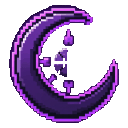
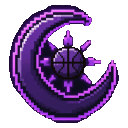
Ranked: fix eclipse badge cutout, show opponent rank badge

Changed region(s): [[0.0625, 0.0312, 0.9375, 0.9688]]

diff --git a/supabase/tests/match-ranks.test.ts b/supabase/tests/match-ranks.test.ts
@@ -1,0 +1,30 @@
+// Migration 20261115: pokejam_match_ranks gives both players' public rank to the match's players only.
+import { describe, expect, it, vi } from 'vitest';
+import { testDb } from './testDb';
+
+vi.setConfig({ testTimeout: 60_000 });
+
+describe('pokejam_match_ranks', () => {
+  it('returns each side as ranked / placing / unranked, to participants only, with nothing private', async () => {
+    const t = await testDb();
+    const [a, b, c] = [await t.user('A', false, 'Player_One'), await t.user('B', false, 'Player_Two'), await t.user('C', false, 'Outsider')];
+    expect(await a.call('pokejam_find_match', ['ranked'])).toBeNull();
+    const mid = (await b.call<string | null>('pokejam_find_match', ['ranked']))!;
+    const m = (await t.sql('select host, guest from public.pokejam_matches where id = $1', [mid]))[0] as { host: string; guest: string };
+
+    const sid = (await t.sql(`select id from public.pokejam_seasons where status = 'active'`))[0].id as number;
+    for (const u of [m.host, m.guest]) await t.sql('select public.pokejam_ranked_profile_lock($1, $2)', [u, sid]);
+    await t.sql(`update public.pokejam_ranked_profiles set status = 'ranked', placements_played = 5, div_idx = 7, points = 40 where user_id = $1`, [m.host]);
+    await t.sql(`update public.pokejam_ranked_profiles set status = 'placing', placements_played = 2 where user_id = $1`, [m.guest]);
+    const both = await a.call<Record<string, Record<string, unknown>>>('pokejam_match_ranks', [mid]);
+    expect(Object.keys(both).sort()).toEqual(['guest', 'host']);
+    expect(both.host).toEqual({ status: 'ranked', placements_played: 5, placements_total: 5, div_idx: 7, tier: 'Gold', division: 2 });
+    expect(both.guest).toEqual({ status: 'placing', placements_played: 2, placements_total: 5 });
+
+    await t.sql('delete from public.pokejam_ranked_profiles where user_id = $1', [m.guest]);
+    expect((await b.call<Record<string, Record<string, unknown>>>('pokejam_match_ranks', [mid])).guest).toEqual({ status: 'unranked' });
+
+    await expect(c.call('pokejam_match_ranks', [mid])).rejects.toThrow(/not in this match/);
+    await expect(a.call('pokejam_match_rank_of', [m.host, 1])).rejects.toThrow(/permission denied/);
+  });
+});

diff --git a/src/multiplayer/ranked/serverRank.ts b/src/multiplayer/ranked/serverRank.ts
@@ -1,5 +1,6 @@
 // Maps the server's rating rows to what the Ranked screen shows. The client never computes a rating: the numbers
 // come from pokejam_profiles (via pokejam_ensure_profile) and are only diffed here to say what the last match did.
+import type { BadgeRank } from '../../ranked/badge';
 import { DIVISIONS, PLACEMENTS, TIERS, view, type MatchOutcome, type RankView, type Tier } from './rank';
 
 /** The rating columns of a pokejam_profiles row. */
@@ -139,4 +140,29 @@ export function parseMe(raw: unknown): RankedMe | null {
     shieldActive: r.shield_active === true, wins: nullable(r.wins) ?? 0, losses: nullable(r.losses) ?? 0, peakIdx: placing ? null : nullable(r.peak_idx),
     cooldownUntil: typeof r.cooldown_until === 'string' ? r.cooldown_until : null,
   };
+}
+
+/** One player's public rank from `pokejam_match_ranks`: placed (division index), in placements, or none; undefined when unusable. */
+function parseSideRank(raw: unknown): BadgeRank | undefined {
+  const r = raw as Record<string, unknown> | null | undefined;
+  if (!r || typeof r !== 'object' || Array.isArray(r)) return undefined;
+  if (r.status === 'unranked') return null;
+  if (r.status === 'placing') {
+    const of = nullable(r.placements_total) ?? PLACEMENT_GAMES;
+    return { placing: Math.min(of, Math.max(0, nullable(r.placements_played) ?? 0)), of };
+  }
+  const d = nullable(r.div_idx);
+  return r.status === 'ranked' && d !== null && d >= 0 && d <= 24 ? { divIdx: Math.floor(d) } : undefined;
+}
+
+/** `pokejam_match_ranks(match)` for the player on `side` (0 = host, 1 = guest): my badge and my opponent's. A side the server did not describe stays undefined (no badge shown). */
+export function parseMatchRanks(raw: unknown, side: 0 | 1): { me?: BadgeRank; opp?: BadgeRank } {
+  const r = raw as Record<string, unknown> | null | undefined;
+  if (!r || typeof r !== 'object') return {};
+  const mine = parseSideRank(side === 0 ? r.host : r.guest);
+  const theirs = parseSideRank(side === 0 ? r.guest : r.host);
+  const out: { me?: BadgeRank; opp?: BadgeRank } = {};
+  if (mine !== undefined) out.me = mine;
+  if (theirs !== undefined) out.opp = theirs;
+  return out;
 }

diff --git a/src/multiplayer/ranked/matchRanks.test.ts b/src/multiplayer/ranked/matchRanks.test.ts
@@ -1,0 +1,35 @@
+import { describe, expect, it } from 'vitest';
+import { renderRankBadge } from '../../ranked/badge';
+import { parseMatchRanks } from './serverRank';
+
+const wire = {
+  host: { status: 'ranked', placements_played: 5, placements_total: 5, div_idx: 7, tier: 'Gold', division: 2 },
+  guest: { status: 'placing', placements_played: 2, placements_total: 5 },
+};
+
+describe('pokejam_match_ranks mapping', () => {
+  it('picks my side and the opponent side', () => {
+    expect(parseMatchRanks(wire, 0)).toEqual({ me: { divIdx: 7 }, opp: { placing: 2, of: 5 } });
+    expect(parseMatchRanks(wire, 1)).toEqual({ me: { placing: 2, of: 5 }, opp: { divIdx: 7 } });
+  });
+  it('an opponent with no rank row is Unranked (null), not missing', () => {
+    expect(parseMatchRanks({ host: wire.host, guest: { status: 'unranked' } }, 0).opp).toBeNull();
+  });
+  it('Zenith maps to its division index', () => {
+    expect(parseMatchRanks({ host: { status: 'ranked', div_idx: 24 }, guest: { status: 'unranked' } }, 1).opp).toEqual({ divIdx: 24 });
+  });
+  it('anything unusable leaves the side out, so no badge is drawn', () => {
+    for (const bad of [null, undefined, 'x', 5, [], {}, { host: null, guest: 3 }]) expect(parseMatchRanks(bad, 0)).toEqual({});
+    expect(parseMatchRanks({ host: { status: 'ranked', div_idx: 99 }, guest: { status: 'ranked' } }, 0)).toEqual({});
+  });
+  it('clamps placement counts and tolerates numbers sent as strings', () => {
+    expect(parseMatchRanks({ host: { status: 'placing', placements_played: '9', placements_total: '5' }, guest: { status: 'ranked', div_idx: '3' } }, 1))
+      .toEqual({ me: { divIdx: 3 }, opp: { placing: 5, of: 5 } });
+  });
+  it('renders as badges: tier art, Placement x/y, Unranked', () => {
+    const r = parseMatchRanks(wire, 1);
+    expect(renderRankBadge(r.opp!)).toContain('Gold 2');
+    expect(renderRankBadge(r.me!)).toContain('Placement 2/5');
+    expect(renderRankBadge(parseMatchRanks({ host: { status: 'unranked' }, guest: wire.guest }, 1).opp!)).toContain('Unranked');
+  });
+});

diff --git a/src/multiplayer/shared/onlineMatchService.ts b/src/multiplayer/shared/onlineMatchService.ts
@@ -2,8 +2,9 @@
 // clients can only read their own rows. See supabase/migrations/.
 import { MODE_RANKED } from '../../config/features';
 import type { DraftView } from './draft';
-import { cooldownSeconds, counted, outcomeBetween, parseMe, parseProfile, parseRankResult, type RankedMe, type RankedResult, type ServerRank } from '../ranked/serverRank';
+import { cooldownSeconds, counted, outcomeBetween, parseMatchRanks, parseMe, parseProfile, parseRankResult, type RankedMe, type RankedResult, type ServerRank } from '../ranked/serverRank';
 import { displayName, serverNameError } from '../ranked/username';
+import type { BadgeRank } from '../../ranked/badge';
 import { isBusy } from './capacity';
 import { RateLimit, backoffMs, jitter, singleFlight, sleep } from './throttle';
 import type { MatchResult, MatchService, Opponent, Queue, ReportOutcome } from './matchService';
@@ -173,6 +174,16 @@ export class SupabaseMatchService implements MatchService {
   async rankedMe(): Promise<RankedMe | null> {
     if (!MODE_RANKED) throw new OnlineError('Ranked is not available');
     return parseMe(await this.call('pokejam_ranked_me'));
+  }
+
+  /** Both players' public rank for a Ranked match's name cards. Fails soft: any error (e.g. the server lacks the function) gives {}. */
+  async matchRanks(matchId: string, side: 0 | 1): Promise<{ me?: BadgeRank; opp?: BadgeRank }> {
+    if (!MODE_RANKED) return {};
+    try {
+      return parseMatchRanks(await this.call('pokejam_match_ranks', { p_match: matchId }), side);
+    } catch {
+      return {};
+    }
   }
 
   /** My username and when I may change it (null = now). A guest, or a player who hasn't picked, has none. */

diff --git a/src/multiplayer/shared/onlineGame.ts b/src/multiplayer/shared/onlineGame.ts
@@ -180,12 +180,14 @@ export async function playOnline(ctx: ModeContext, o: OnlineGameOptions) {
     // Let the last lockstep messages reach the other player before leaving the channel.
     setTimeout(() => { uploadEvidence(); link.close(); }, 3000);
     const names = match.queue === 'ranked' ? { me: match.me.name, opp: match.opponent.name } : undefined;
-    const show = (out: ReportOutcome) => (typeof o.outcomeHtml === 'function' ? o.outcomeHtml({ ...out, names: out.names ?? names }) : o.outcomeHtml);
+    let oppRank: ReportOutcome['oppRank'];
+    const show = (out: ReportOutcome) => (typeof o.outcomeHtml === 'function' ? o.outcomeHtml({ ...out, names: out.names ?? names, oppRank: out.oppRank !== undefined ? out.oppRank : oppRank }) : o.outcomeHtml);
     let note: string;
     let later: Promise<ReportOutcome> | undefined;
     try {
       const opp: OnlineOpponent = { ...match.opponent, matchId: match.id, mySide: match.side };
       const out = await service.reportResult(match.queue, opp, { won, score: [mine, theirs], engineVersion: g.engineVersion, seed: g.seed });
+      if (match.queue === 'ranked') oppRank = (await service.matchRanks(match.id, match.side)).opp; // fails soft: no badge on an error
       note = show(out);
       later = out.later;
     } catch {

diff --git a/supabase/tests/testDb.ts b/supabase/tests/testDb.ts
@@ -9,7 +9,8 @@ const MIGRATIONS = ['20261021_pokejam_online.sql', '20261022_pokejam_social.sql'
   '20261031_pokejam_moderation.sql', '20261101_pokejam_social_draft.sql', '20261102_pokejam_mons_sync.sql', '20261103_pokejam_match_cleanup.sql',
   '20261104_pokejam_queue_heartbeat.sql', '20261105_pokejam_draft_presence.sql', '20261106_pokejam_game_heartbeat.sql', '20261107_pokejam_requeue_stale.sql', '20261108_pokejam_net_stats.sql', '20261109_pokejam_admin_stats.sql',
   '20261110_pokejam_offline_stats.sql', '20261111_pokejam_ranked.sql',
-  '20261112_pokejam_ranked_matchmaking.sql', '20261113_pokejam_ranked_signin.sql', '20261114_pokejam_profiles.sql']
+  '20261112_pokejam_ranked_matchmaking.sql', '20261113_pokejam_ranked_signin.sql', '20261114_pokejam_profiles.sql',
+  '20261115_pokejam_match_ranks.sql']
   .map((f) => readFileSync(new URL(`../migrations/${f}`, import.meta.url), 'utf8'));
 
 // Auto usernames are Tr1, Tr2, ...: digits only after the prefix, so they can never spell a blocked word.

diff --git a/scripts/make-rank-badges.py b/scripts/make-rank-badges.py
@@ -4,10 +4,9 @@
 
 The background is removed by flood fill from the image edges only, so dark pixels inside a badge (silver, gold star centre,
 eclipse outline) stay opaque. Alpha is binary (hard pixel-art edge): the flooded region is transparent, then the opaque edge is
-eroded 1px to drop the soft glow rim. Needs numpy, scipy and Pillow.
+eroded 1px to drop the soft glow rim. The background test is navy-ish (not just dark), so black outlines are walls. Needs numpy, scipy and Pillow.
 """
 import sys
-from collections import deque
 from pathlib import Path
 
 import numpy as np
@@ -15,31 +14,30 @@ from PIL import Image
 from scipy import ndimage
 
 TIERS = ['bronze', 'silver', 'gold', 'platinum', 'diamond', 'prism', 'eclipse', 'master', 'zenith']
-TOL = 38    # max RGB distance from the sampled corner colour that still counts as background
+TOL = 18        # core background: max RGB distance from the corner colour (tight, so black outlines are walls)
+HUE = 6         # ...and the pixel must be navy-ish: blue at least this far above red, like the background
+FRINGE = 4      # then up to this many px of dim, bluish glow next to the background are removed too
+FRINGE_MAX_LUM = 70
 PAD = 0.04  # padding around the content bbox, as a fraction of its size
 OUT = Path(__file__).resolve().parent.parent / 'public' / 'ranks'
 
 
 def flood_bg(rgb: np.ndarray, tol: float) -> np.ndarray:
-    """Pixels connected to the image border whose colour is within tol of the corner colour."""
+    """Background connected to the image border. The core is navy-ish AND near the corner colour (a black outline is neither,
+    so it stops the fill); then a few px of dim bluish glow touching it are added, never crossing a non-bluish pixel."""
     h, w, _ = rgb.shape
     k = 12
     corners = np.concatenate([rgb[:k, :k].reshape(-1, 3), rgb[:k, -k:].reshape(-1, 3), rgb[-k:, :k].reshape(-1, 3), rgb[-k:, -k:].reshape(-1, 3)])
     bg = np.median(corners, axis=0)
-    near = np.linalg.norm(rgb.astype(np.float32) - bg, axis=2) <= tol
-    seen = np.zeros((h, w), bool)
-    q: deque = deque()
-    edge = [(0, x) for x in range(w)] + [(h - 1, x) for x in range(w)] + [(y, 0) for y in range(h)] + [(y, w - 1) for y in range(h)]
-    for y, x in edge:
-        if near[y, x] and not seen[y, x]:
-            seen[y, x] = True
-            q.append((y, x))
-    while q:
-        y, x = q.popleft()
-        for ny, nx in ((y + 1, x), (y - 1, x), (y, x + 1), (y, x - 1)):
-            if 0 <= ny < h and 0 <= nx < w and near[ny, nx] and not seen[ny, nx]:
-                seen[ny, nx] = True
-                q.append((ny, nx))
+    f = rgb.astype(np.float32)
+    bluish = (f[..., 2] - f[..., 0] >= HUE) & (f[..., 2] >= f[..., 1])
+    near = (np.linalg.norm(f - bg, axis=2) <= tol) & bluish
+    lab, _ = ndimage.label(near)
+    edge = np.unique(np.concatenate([lab[0], lab[-1], lab[:, 0], lab[:, -1]]))
+    seen = np.isin(lab, edge[edge > 0])
+    glow = bluish & (f.mean(axis=2) <= FRINGE_MAX_LUM)
+    for _ in range(FRINGE):
+        seen = seen | (ndimage.binary_dilation(seen) & glow)
     return seen
 
 
@@ -101,8 +99,11 @@ def main():
         one, two = process(src / f'{t}.jpg', (128, 256))
         save(one, OUT / f'{t}.png')
         save(two, OUT / f'{t}@2x.png')
-        opaque = (np.array(one.getchannel('A')) > 0).mean()
-        print(f'{t:9} opaque {opaque:.0%}  {(OUT / f"{t}.png").stat().st_size} B / {(OUT / f"{t}@2x.png").stat().st_size} B')
+        al = np.array(one.getchannel('A')) > 0
+        yy, xx = np.mgrid[:128, :128]
+        disc = al[(yy - 63.5) ** 2 + (xx - 63.5) ** 2 <= 20 ** 2].mean()  # the basketball: must be solid
+        opaque = al.mean()
+        print(f'{t:9} centre {disc:.0%} opaque {opaque:.0%}  {(OUT / f"{t}.png").stat().st_size} B / {(OUT / f"{t}@2x.png").stat().st_size} B')
 
 
 if __name__ == '__main__':
